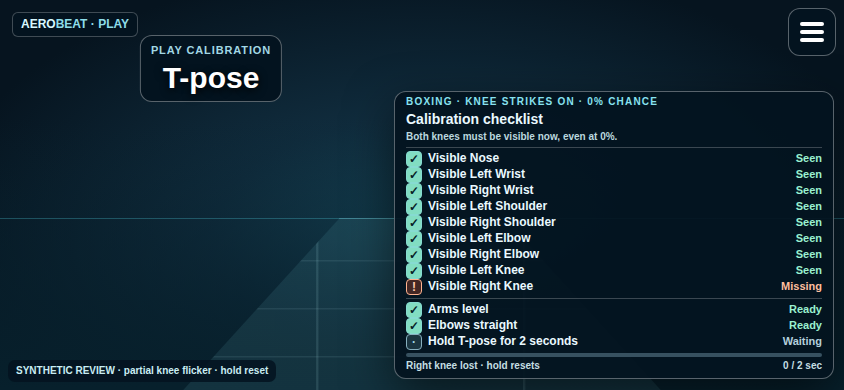
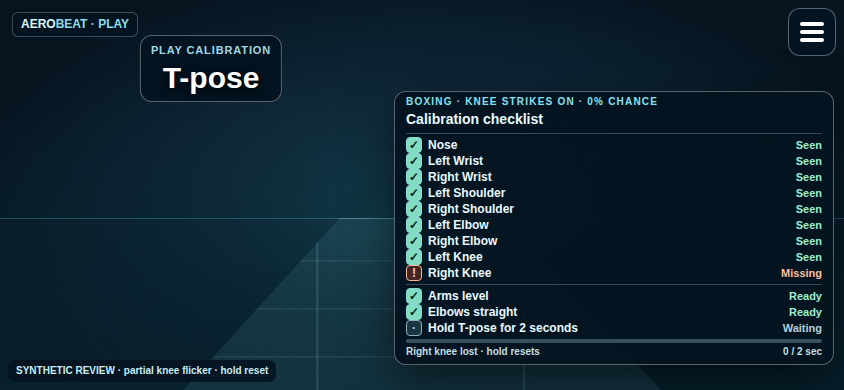
Apply approved checklist wording to design screenshots

Changed region(s): [[0.4621, 0.3385, 0.9858, 0.9846]]

diff --git a/design/play-calibration-checklist.html b/design/play-calibration-checklist.html
@@ -24,9 +24,9 @@
 <div class="sample" id="sample"></div>
 </main>
 <script>
-const all=['Visible Nose','Visible Left Wrist','Visible Right Wrist','Visible Left Shoulder','Visible Right Shoulder','Visible Left Elbow','Visible Right Elbow','Visible Left Knee','Visible Right Knee'];
+const all=['Nose','Left Wrist','Right Wrist','Left Shoulder','Right Shoulder','Left Elbow','Right Elbow','Left Knee','Right Knee'];
 const states={
- 'knee-flicker':{mode:'BOXING · KNEE STRIKES ON · 0% CHANCE',subtitle:'Both knees must be visible now, even at 0%.',missing:['Visible Right Knee'],cue:'T-pose',detail:'Right knee lost · hold resets',elapsed:'0 / 2 sec',progress:0,sample:'SYNTHETIC REVIEW · partial knee flicker · hold reset'},
+ 'knee-flicker':{mode:'BOXING · KNEE STRIKES ON · 0% CHANCE',subtitle:'',missing:['Right Knee'],cue:'T-pose',detail:'Right knee lost · hold resets',elapsed:'0 / 2 sec',progress:0,sample:'SYNTHETIC REVIEW · partial knee flicker · hold reset'},
  holding:{mode:'BOXING · KNEE STRIKES ON · 0% CHANCE',subtitle:'All required landmarks visible in this frame.',missing:[],cue:'Hold T-pose',detail:'Keep arms level and elbows straight',elapsed:'1.2 / 2 sec',progress:60,sample:'SYNTHETIC REVIEW · holding · 1.2 / 2 sec'},
  complete:{mode:'BOXING · KNEE STRIKES ON · 0% CHANCE',subtitle:'Two-second T-pose captured.',missing:[],cue:'Release',detail:'Calibration complete · release pose',elapsed:'2 / 2 sec',progress:100,sample:'SYNTHETIC REVIEW · complete · release pose'},
  flow:{mode:'FLOW · KNEES NOT REQUIRED',subtitle:'Upper-body landmarks only.',missing:[],cue:'Hold T-pose',detail:'Knee rows omitted in Flow',elapsed:'0.8 / 2 sec',progress:40,sample:'SYNTHETIC REVIEW · Flow · no knee rows',knees:false},
@@ -39,6 +39,7 @@ const poseStatus=key==='knee-flicker'?'waiting':key==='complete'?'done':key==='b
 for(const label of ['Arms level','Elbows straight'])document.querySelector('#pose').append(row(label,key==='boxing-knees-off'?'waiting':'seen',key==='boxing-knees-off'?'Waiting':'Ready'));
 document.querySelector('#pose').append(row('Hold T-pose for 2 seconds',poseStatus,key==='complete'?'Complete':poseStatus==='holding'?'Holding':'Waiting'));
 for(const [id,value] of Object.entries({mode:state.mode,subtitle:state.subtitle,cueText:state.cue,detail:state.detail,elapsed:state.elapsed,sample:state.sample}))document.getElementById(id).textContent=value;
+document.getElementById('subtitle').hidden=!state.subtitle;
 document.querySelector('#progress').style.setProperty('--progress',`${state.progress}%`);document.querySelector('#progress').setAttribute('aria-label',`Hold progress ${state.elapsed}`);
 </script>
 </body></html>

diff --git a/.plans/2026-10-25-play-calibration-checklist-design.md b/.plans/2026-10-25-play-calibration-checklist-design.md
@@ -1,34 +1,38 @@
 # Play calibration checklist — screenshot approval checkpoint
 
-**Status:** Design revision 2 ready for renewed screenshot review; Derrick identified landscape hamburger overlap and an almost-touching desktop cue/card in revision 1. Neither revision has production UI approval. Owner: aerobeat-web-ui, current main. Parent: assembly `.plans/2026-10-25-boxing-heights-fixed-colliders-knee-calibration.md`, task D. No production UI, assembly runtime, input, gameplay, renderer, route, or public release edits are in scope.
+**Status:** Design revision 3 approved by Derrick on 2026-10-25, conditional on removing “Visible” from all landmark labels and deleting the “Both knees must...” line. Both requested changes were applied; the updated portrait, landscape and desktop screenshots were regenerated and visually checked. Owner: aerobeat-web-ui, current main. Parent: assembly `.plans/2026-10-25-boxing-heights-fixed-colliders-knee-calibration.md`, task D. This owner repo remains design-only; assembly production implementation is separately tracked.
 
 ## Decision and next check
 
-A compact static HTML/CSS concept shows current-frame detector statuses inside a synthetic assembled Play shell, not the hidden calibration badge/testbed. Review the captured phone, desktop, and landscape PNGs with Derrick. Wait for explicit screenshot approval before the parent plan's task E may register the approved design revision and implement the production checklist.
+A compact static HTML/CSS concept shows current-frame detector statuses inside a synthetic assembled Play shell, not the hidden calibration badge/testbed. Derrick approved the checklist once his two text edits landed. They are in revision 3, its ten screenshots were regenerated with the existing capture assertions, and assembly may now register design truth before implementing the actual Play checklist.
 
 ## Tasks
 
 - [x] Read both owner READMEs, parent plan, and actual assembly Play shell cue/styles. Assembly's `.transient-cue` is centered at 18% from top, dark `#03131f`, white high-contrast type and outlined round corners; menu sits top right, FPS top left and renderer fills the parent. Hidden badge/testbed are not design truth. The synthetic scene deliberately uses abstract graphic geometry, never a camera frame or product asset.
 - [x] Build isolated `design/play-calibration-checklist.html`: nine individual measured-landmark status rows when Boxing knee strikes are on at 0%, two pose rows and a two-second hold row. Show partial knee flicker resetting hold, active hold, completed capture and Flow/no-knee contrast. No clickable checklist rows, permissions, gameplay controls or live camera connection.
 - [x] Capture labeled PNGs in `screenshots/play-calibration-checklist/` with local Chromium/Playwright and fixed viewport/device scale 1. Record the exact capture command and state inventory below.
-- [ ] Human gate: Derrick reviews PNGs and explicitly approves or requests changes. Approval is not implied by a source commit.
+- [x] Human gate: Derrick explicitly approved after revision 3 removes “Visible” from all nine landmark labels and removes the knee-flicker helper line; captured PNGs now show both changes. This is approval for the checklist design only, not a public release.
 
 ## State inventory and capture
 
-The standalone file uses synthetic static examples chosen by the `?state=` query: `knee-flicker` (left knee visible, right knee briefly lost, hold resets to zero), `holding` (all nine visible; hold at 1.2/2 seconds), `complete` (all nine visible and 2/2 seconds), `flow` (seven upper-body rows only, knees not required), and `boxing-knees-off` (same seven rows only). The Boxing labels explicitly show **Knee strikes ON · 0% chance** to demonstrate that zero probability still requires both knees. Textual `Seen`/`Missing`/`Waiting`/`Holding`/`Complete` statuses accompany icons and color. Rows represent momentary detector state, not interactive or latched checkboxes. Completion is a sample captured state, not a claim that a physical user was calibrated.
+The standalone file uses synthetic static examples chosen by the `?state=` query: `knee-flicker` (left knee visible, right knee briefly lost, hold resets to zero), `holding` (all nine visible; hold at 1.2/2 seconds), `complete` (all nine visible and 2/2 seconds), `flow` (seven upper-body rows only, knees not required), and `boxing-knees-off` (same seven rows only). The Boxing mode eyebrow explicitly shows **Knee strikes ON · 0% chance** to demonstrate that zero probability still requires both knees, without an extra knee-instruction line. Nine landmark labels omit “Visible” and show plain names such as “Right Knee”. Textual `Seen`/`Missing`/`Waiting`/`Holding`/`Complete` statuses accompany icons and color. Rows represent momentary detector state, not interactive or latched checkboxes. Completion is a sample captured state, not a claim that a physical user was calibrated.
 
 From owner repo root, run `node design/capture-play-calibration-checklist.cjs`. It uses the existing assembly `node_modules/playwright` and installed Chromium executable; no web server, network, device camera, installed product, or public route. Canonical captures use 390×844 portrait, 1440×900 desktop, and 844×390 phone landscape, device scale 1, with animation suppressed and fonts awaited. The script asserts all row labels, the knee present/absent contract and viewport geometry, and writes ten labeled PNGs; screenshot-only visual review is **not** production fidelity verification. Browser dependencies must exist locally; do not vendor them into owner repo.
 
 ## Boundary / Beads
 
-Owner repo has no Beads database (`bd ready --json`: no database). Parent assembly plan notes a DB schema v66 vs installed CLI v53 mismatch and unrelated dirty assembly `.beads/interactions.jsonl`; do not attempt assembly Beads writes. This owner checkpoint is the durable task record until the parent can safely reconcile its ledger. Production `ui_fidelity` remains **pending** in the parent; mockup approval date/revision and production reference/real/diff/token parity cannot be asserted now.
+Owner repo has no Beads database (`bd ready --json`: no database). Parent assembly plan notes a DB schema v66 vs installed CLI v53 mismatch and unrelated dirty assembly `.beads/interactions.jsonl`; do not attempt assembly Beads writes. This owner checkpoint is the durable task record until the parent can safely reconcile its ledger. Parent assembly must register approved revision 3 as `ui_fidelity` design truth before production checklist work; reference/real/diff/token parity is not yet produced.
 
 ## Outcome
 
-Design-only, synthetic browser screenshots for Derrick's visual decision. No production screenshot, gameplay acceptance or approval claim. No change to public route.
+Approved design-only, synthetic browser screenshots for assembly task E. No production screenshot or public route change; the current mockup captures are not yet real-app fidelity evidence.
+
+## Revision 3 — Derrick's conditional approval, now satisfied
+
+Derrick requested removal of the word “Visible” from the landmark checklist and removal of “Both knees must be visible now, even at 0%.” He explicitly authorized implementation after these edits. Revision 3 labels all nine landmarks by name only; the knee-flicker state hides its redundant subtitle line rather than leaving a blank gap. The existing capture script asserts both changes, the correct nine/seven measured rows, desktop/phone/landscape layout and no page errors. Ten PNGs were regenerated at the canonical viewports; the updated portrait screenshot shows “Nose”, “Left Wrist”, “Right Knee” and no helper line. Parent assembly production UI may proceed with `ui_fidelity` registration; public signed 0.0.145 remains unchanged.
 
 ## Revision 2 — Derrick's screenshot feedback
 
 Derrick found the revision-1 landscape card overlapped the top-right hamburger (card x394–835 and button x788–835 at y36–53), while the desktop cue ended at y251 and card began at y252. Revision 2 changes **only static mockup CSS**: desktop/portrait card starts 12px lower; landscape card starts below the hamburger while retaining a compact two-column layout. The same capture command regenerated all ten screenshots, including the affected desktop (three) and landscape (two); portrait samples shifted down with the card and were also refreshed. The HTML and owner checkpoint are the only text changes; no production code changed. Screenshot names remain the same under `screenshots/play-calibration-checklist/`.
 
-Validation: Chromium/Playwright screenshots regenerated with the existing script; a read-only layout check across all five states at each of the three viewports found **zero menu/card intersections** and no card content scrolling/clipping. Desktop cue/card bounding boxes are y162–250.75 and y264–724.39 respectively (13.25px clearance). Landscape hamburger is x788–836, y8–56; knee-flicker card is x394–834, y91.09–377.69 (non-overlapping vertically); the hold-progress footer is fully visible. Human screenshot approval remains outstanding; parent production `ui_fidelity` stays pending.
+Validation: Chromium/Playwright screenshots regenerated with the existing script; a read-only layout check across all five states at each of the three viewports found **zero menu/card intersections** and no card content scrolling/clipping. Desktop cue/card bounding boxes are y162–250.75 and y264–724.39 respectively (13.25px clearance). Landscape hamburger is x788–836, y8–56; knee-flicker card is x394–834, y91.09–377.69 (non-overlapping vertically); the hold-progress footer is fully visible. Derrick later approved revision 3 with two requested text removals; see below.
